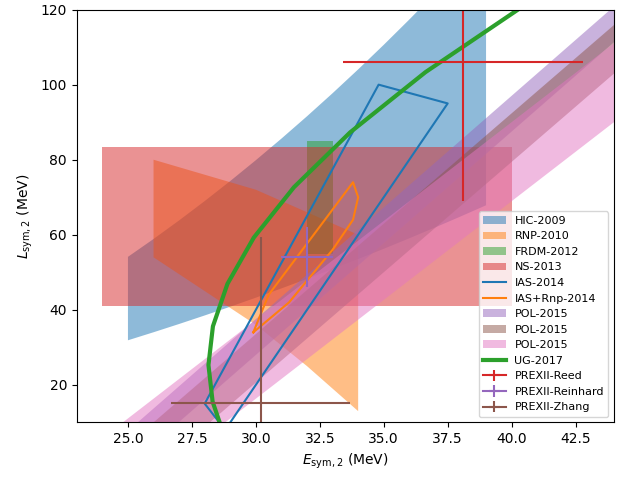
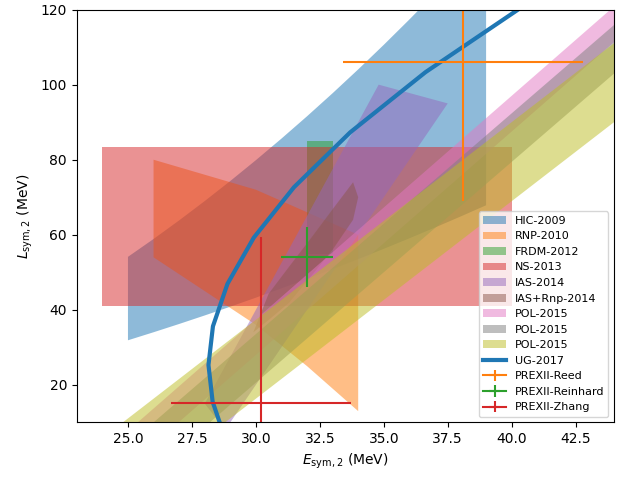
improve EsymLsym

Changed region(s): [[0.1875, 0.0, 0.9688, 0.9062], [0.75, 0.5625, 0.875, 0.875], [0.5625, 0.9062, 0.625, 0.9375]]

diff --git a/nucleardatapy-v0.1/setup_EsymLsym.py b/nucleardatapy-v0.1/setup_EsymLsym.py
@@ -241,14 +241,19 @@ class SetupEsymLsym():
         #
         elif constraint.lower() == '2014-ias':
             #
-            file_in = os.path.join(nuda.param.path_data,'EsymLsym/2014-IAS.dat')
+            file_in = os.path.join(nuda.param.path_data,'EsymLsym/2014-IAS-err.dat')
+            #file_in = os.path.join(nuda.param.path_data,'EsymLsym/2014-IAS.dat')
             if nuda.env.verb: print('Reads file:',file_in)
             self.ref = 'Danielewicz and Lee, NPA 922, 1 (2014)'
             self.label = 'IAS-2014'
             self.note = "Constraints from IAS."
-            self.Lsym, self.Esym = \
-                np.loadtxt( file_in, usecols=(0,1), unpack = True )
-            self.plot = 'contour'
+            #self.Lsym, self.Esym = \
+            #    np.loadtxt( file_in, usecols=(0,1), unpack = True )
+            #self.plot = 'contour'
+            self.Esym, self.Lsym, self.Lsym_err = \
+                np.loadtxt( file_in, usecols=(0,1,2), unpack = True )
+            self.plot = 'band_y'
+            self.alpha = 0.5
 
             # setup list with contour for IAS contraint in Esym-Lsym coordinates
             self.cont_Esym = []
@@ -263,14 +268,19 @@ class SetupEsymLsym():
             #
         elif constraint.lower() == '2014-ias+rnp':
             #
-            file_in = os.path.join(nuda.param.path_data,'EsymLsym/2014-IAS+RNP.dat')
+            file_in = os.path.join(nuda.param.path_data,'EsymLsym/2014-IAS+RNP-err.dat')
+            #file_in = os.path.join(nuda.param.path_data,'EsymLsym/2014-IAS+RNP.dat')
             if nuda.env.verb: print('Reads file:',file_in)
             self.ref = 'Danielewicz and Lee, NPA 922, 1 (2014)'
             self.label = 'IAS+Rnp-2014'
             self.note = "Constraints from IAS + neutron skin (Rnp)."
-            self.Lsym, self.Esym = \
-                np.loadtxt( file_in, usecols=(0,1), unpack = True )
-            self.plot = 'contour'
+            self.Esym, self.Lsym, self.Lsym_err = \
+                np.loadtxt( file_in, usecols=(0,1,2), unpack = True )
+            self.plot = 'band_y'
+            self.alpha = 0.5
+            #self.Lsym, self.Esym = \
+            #    np.loadtxt( file_in, usecols=(0,1), unpack = True )
+            #self.plot = 'contour'
 
             # setup list with contour for IAS contraint in Esym-Lsym coordinates
             self.cont_Esym = []

diff --git a/data/EsymLsym/2014-IAS+RNP-plot.py b/data/EsymLsym/2014-IAS+RNP-plot.py
@@ -1,0 +1,24 @@
+
+import numpy as np
+import matplotlib.pyplot as plt
+
+def func(x,xmin,xmax,ymin,ymax):
+	return ymin + (x-xmin)/(xmax-xmin)*(ymax-ymin)
+
+Lsym, Esym = np.loadtxt( '2014-IAS+RNP.dat', usecols=(0,1), unpack=True )
+Esym2, Lsym2, Lsym2_err = np.loadtxt( '2014-IAS+RNP-err.dat', usecols=(0,1,2), unpack=True )
+
+plt.plot(Esym,Lsym)
+plt.errorbar(Esym2,Lsym2,yerr=Lsym2_err)
+
+plt.savefig('test.png')
+plt.close()
+
+#print('y_max(28.8):',func(28.8,28,34.8,15,100))
+#print('y_min(34.8):',func(34.8,28.8,37.5,8,95))
+#print('y_cent(31.0):',func(31.0,28.8,34.8,16.5,84))
+#print('y_cent(33.0):',func(33.0,28.8,34.8,16.5,84))
+#print('y_max(31.0):',func(31.0,28,34.8,15,100))
+#print('y_max(33.0):',func(33.0,28,34.8,15,100))
+#print('y_min(31.0):',func(31.0,28.8,37.5,8,95))
+#print('y_min(33.0):',func(33.0,28.8,37.5,8,95))

diff --git a/data/EsymLsym/2014-IAS-plot.py b/data/EsymLsym/2014-IAS-plot.py
@@ -1,0 +1,24 @@
+
+import numpy as np
+import matplotlib.pyplot as plt
+
+def func(x,xmin,xmax,ymin,ymax):
+	return ymin + (x-xmin)/(xmax-xmin)*(ymax-ymin)
+
+Lsym, Esym = np.loadtxt( '2014-IAS.dat', usecols=(0,1), unpack=True )
+Esym2, Lsym2, Lsym2_err = np.loadtxt( '2014-IAS-err.dat', usecols=(0,1,2), unpack=True )
+
+plt.plot(Esym,Lsym)
+plt.errorbar(Esym2,Lsym2,yerr=Lsym2_err)
+
+plt.savefig('test.png')
+plt.close()
+
+print('y_max(28.8):',func(28.8,28,34.8,15,100))
+print('y_min(34.8):',func(34.8,28.8,37.5,8,95))
+print('y_cent(31.0):',func(31.0,28.8,34.8,16.5,84))
+print('y_cent(33.0):',func(33.0,28.8,34.8,16.5,84))
+print('y_max(31.0):',func(31.0,28,34.8,15,100))
+print('y_max(33.0):',func(33.0,28,34.8,15,100))
+print('y_min(31.0):',func(31.0,28.8,37.5,8,95))
+print('y_min(33.0):',func(33.0,28.8,37.5,8,95))
